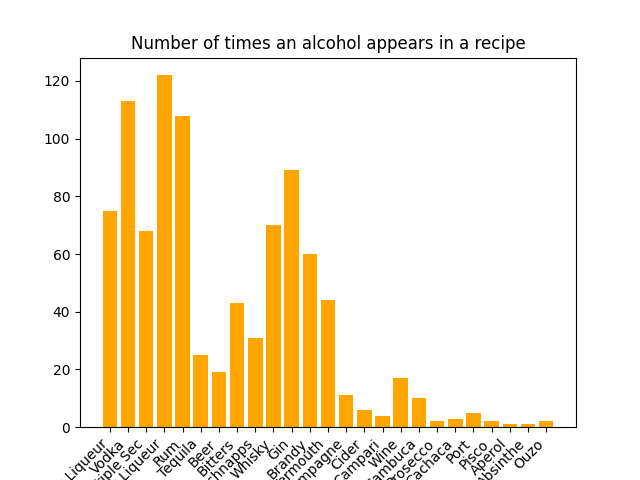
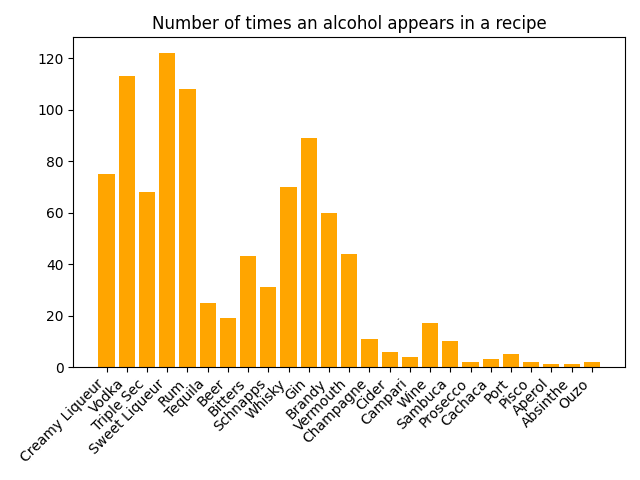
Use matplotlib tight layout
Use tight layout so that legend is not cut

diff --git a/dataset_analysis.py b/dataset_analysis.py
@@ -49,6 +49,7 @@ sorted_counts_type_alc = [counts_type_alc[type] for type in alc_type]
 plt.bar([i for i in range(len(alc_type))], sorted_counts_type_alc, color="orange")
 plt.xticks(range(len(alc_type)), alc_type, rotation=45, horizontalalignment='right', fontsize=10)
 plt.title("Number of times an alcohol appears in a recipe")
+plt.tight_layout()
 plt.savefig(os.path.join(DATA_PATH, 'Representations/popular_alcohol_types'))
 plt.clf()
 
@@ -58,6 +59,7 @@ different_type_alc = [alc_ingr[alc_ingr['Alc_type'] == this_type]['strIngredient
 plt.bar([i for i in range(len(alc_type))], different_type_alc, color="tab:purple")
 plt.xticks(range(len(alc_type)), alc_type, rotation=45, horizontalalignment='right', fontsize=10)
 plt.title("Number of unique ingredients for each type of alcohol")
+plt.tight_layout()
 plt.savefig(os.path.join(DATA_PATH, 'Representations/unique_alcohols_by_type'))
 plt.clf()
 
@@ -67,5 +69,6 @@ different_type_non_alc = [non_alc_ingr[non_alc_ingr['Basic_taste'] == this_type]
 plt.bar([i for i in range(len(basic_taste))], different_type_non_alc, color="tab:green")
 plt.xticks(range(len(basic_taste)), basic_taste, rotation=45, horizontalalignment='right', fontsize=10)
 plt.title("Number of unique ingredients for each type of non alcoholic beverage")
+plt.tight_layout()
 plt.savefig(os.path.join(DATA_PATH, 'Representations/unique_beverages_by_type'))
 plt.clf()
